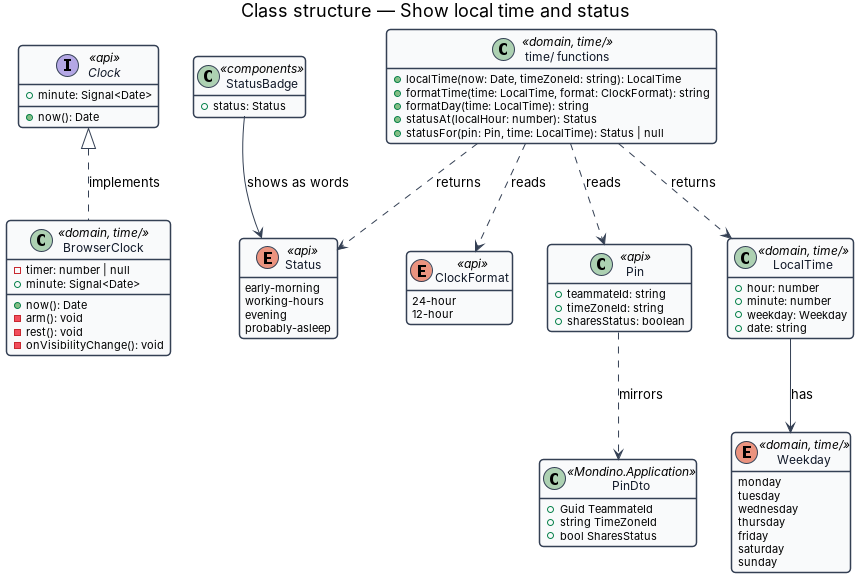
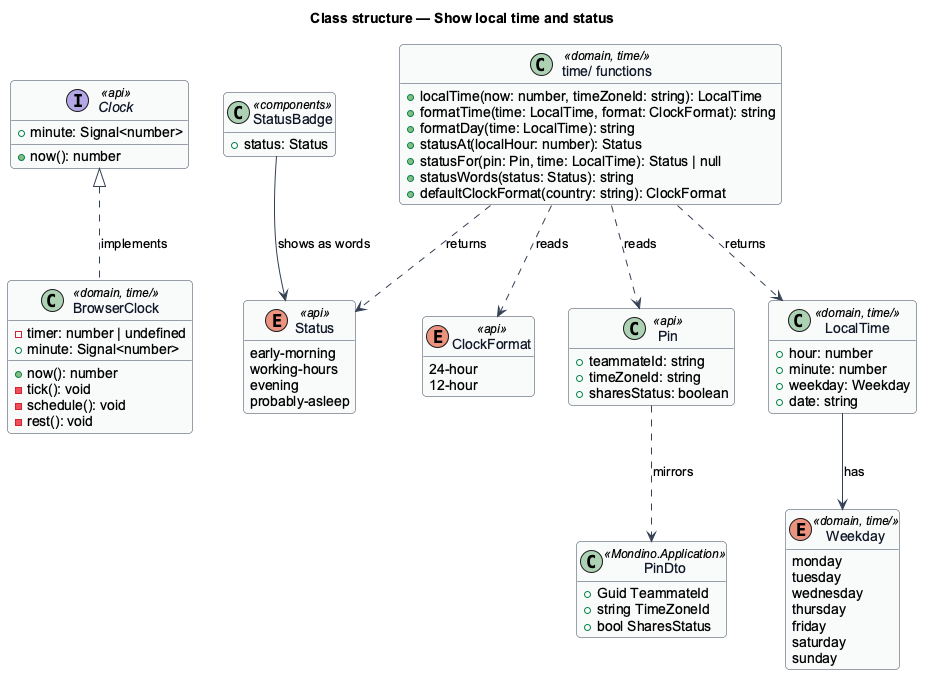
Align the local time and status design with the clock and pins built

diff --git a/docs/detailed-designs/time/show-local-time-and-status/README.md b/docs/detailed-designs/time/show-local-time-and-status/README.md
@@ -36,12 +36,14 @@ presentation components that show a time and a status.
 
 - **`City`** — value object in `Mondino.Domain`. Its `TimeZoneId` holds the IANA name found when
   the teammate's postal code was looked up.
-- **`TeammateSettings`** — value object in `Mondino.Domain`. Its `ShareStatus` records the
-  teammate's choice for "Share whether I’m working or asleep", on to begin with.
+- **`Teammate`** — entity in `Mondino.Domain`. Its `SharesStatus` records the teammate's
+  choice for "Share whether I’m working or asleep", on to begin with. The switch that changes
+  it comes with Profile & Settings (`choose-display-and-sharing`), which moves it into
+  `TeammateSettings` beside the other choices.
 - **`GetPinsQueryHandler`** — MediatR handler in `Mondino.Application`. It returns one `PinDto`
   per teammate of the viewer's team.
 - **`PinDto`** — carries `TimeZoneId` and `SharesStatus`, and no local time (L2-014). The
-  handler sets `SharesStatus` to the teammate's `ShareStatus`, except on the viewer's own pin,
+  handler sets `SharesStatus` to the teammate's own `SharesStatus`, except on the viewer's own pin,
   where it is `true`: a teammate still sees their own status. The backend therefore applies
   the choice, and the frontend only follows the flag.
 - **`TeamsController`** — exposes `GET /api/teams/{teamId}/pins`, checks nothing itself and
@@ -49,17 +51,23 @@ presentation components that show a time and a status.
 
 ### Frontend — `api` library
 
-- **`Clock`** and **`CLOCK`** — contract and injection token of the one clock. `now(): Date`
-  returns the current instant. `minute: Signal<Date>` holds the instant of the latest minute
-  boundary and changes once per minute.
+- **`Clock`** and **`CLOCK`** — contract and injection token of the one clock. `now(): number`
+  returns the current instant in milliseconds since the epoch. `minute: Signal<number>` holds
+  the instant of the latest minute boundary and changes once per minute.
 - **`Pin`** — type mirroring `PinDto`, with `timeZoneId: string` and `sharesStatus: boolean`.
 - **`Status`** — `'early-morning' | 'working-hours' | 'evening' | 'probably-asleep'`.
-- **`ClockFormat`** — `'24-hour' | '12-hour'`, the viewer's choice in `Settings`.
+- **`ClockFormat`** — `'24-hour' | '12-hour'`, the viewer's choice in `Settings`. Until
+  Profile & Settings stores the choice (`choose-display-and-sharing`), the default of L2-033
+  applies: the 12-hour clock for a viewer whose pin is in the United States or Canada, and the
+  24-hour clock otherwise.
+- **`PinView`** — what a pin shows (`show-pins`), with its `localTime` text and its `status`
+  (`Status | null`).
 
 ### Frontend — `domain` library, `time/`
 
-- **`BrowserClock`** — the implementation of `Clock`, bound to `CLOCK` once in `app.config.ts`
-  because the whole app shares it. It holds one timer however many pins a screen shows. The
+- **`BrowserClock`** — the implementation of `Clock`, bound to `CLOCK` by each screen that
+  reads the time (`draw-globe`), so it is released with the screen. It holds one timer however
+  many pins a screen shows. The
   timer is a `setTimeout` armed for the next minute boundary (`60 000 ms` minus the current
   instant modulo `60 000 ms`). When it fires, `BrowserClock` sets `minute` and arms the timer
   again from the current instant, so delay does not accumulate and the tick stays within one
@@ -70,7 +78,8 @@ presentation components that show a time and a status.
   weekday and calendar date of `now` in the given time zone through `Intl.DateTimeFormat` with
   `timeZone` set and the `h23` hour cycle. The browser's time zone data supplies the zone's rule,
   including daylight-saving changes. Formatters are kept in a map keyed by time zone id, which
-  is bounded by the number of IANA time zones.
+  is bounded by the number of IANA time zones. A time zone the browser does not know gives
+  UTC's time.
 - **`LocalTime`** — `hour` (0 to 23), `minute` (0 to 59), `weekday` (`Weekday`) and `date` (the
   local calendar date as `YYYY-MM-DD`). The `weekday` is the teammate's own day, so a panel
   shows Tuesday for Melbourne while the viewer in Milan is on Monday evening.
@@ -79,7 +88,12 @@ presentation components that show a time and a status.
   day line of a panel.
 - **`formatTime(time, format): string`** — pure function. On the 24-hour clock it gives two-digit
   hours and minutes ("08:05"). On the 12-hour clock it gives the hour without a leading zero and
-  a lowercase "am" or "pm" ("8:05 am").
+  a lowercase "am" or "pm" ("8:05 am", "12:30 pm", "12:05 am").
+- **`defaultClockFormat(country): ClockFormat`** — pure function: `12-hour` for the United
+  States and Canada, `24-hour` otherwise (L2-033). It stands for the viewer's choice until
+  Profile & Settings stores one.
+- **`statusWords(status): string`** — pure function: the words of a status as the mocks give
+  them, "Early morning", "Working hours", "Evening" and "Probably asleep".
 - **`statusAt(localHour): Status`** — pure function holding the table of L2-015: 7 and 8 give
   `early-morning`, 9 to 17 give `working-hours`, 18 to 22 give `evening`, and 23 and 0 to 6 give
   `probably-asleep`. It takes no day of the week.
@@ -98,17 +112,25 @@ instant comes from `CLOCK`. Unit tests bind a fake `Clock` and advance it; none 
 
 ### Frontend — pages and presentation
 
+- **`pinViews(pins, now, …)`** — in `domain`'s `pins/` (`show-pins`). For each pin it calls
+  `localTime`, `formatTime` with the viewer's `ClockFormat` and `statusFor`, and puts the time
+  text and the status on the pin's `PinView`. The pin's accessible name gives both, the status
+  as its words: "Tomás Herrera, Mexico City, 08:05, Early morning"; with no status, "Ahmed
+  Al-Sayed, Dubai, 18:05".
 - **`GlobePage`** and **`TeamPage`** — pages in the `mondino` application. Each holds one
-  `computed` that reads `CLOCK`'s `minute`, the pins of `TeamStore` and the viewer's
-  `ClockFormat`, and derives each pin's `LocalTime`, time text and status. One change of
-  `minute` therefore changes every local time on the screen in one pass. A page's `computed` is
-  released with the page.
+  `computed` that reads `CLOCK`'s `minute` and the pins of `TeamStore` and calls `pinViews`,
+  which derives each pin's `LocalTime`, time text and status. One change of `minute` therefore
+  changes every local time on the screen in one pass. A page's `computed` is released with the
+  page. The Team screen comes with `view-team-through-the-day`.
 - **`PinLabel`**, **`TeammatePanel`**, **`TeamTable`** and **`DayRibbon`** — presentation
   components in `components`. Each takes the time text, and where it shows one the day text, as
   inputs. Times are set in Gabarito with tabular figures. None injects `CLOCK`.
 - **`StatusBadge`** — presentation component, the `status` block of the mocks. It takes a
   `Status` and shows it as its words;
-  colour accompanies the words and never replaces them. It renders nothing for `null`.
+  colour accompanies the words and never replaces them. It renders nothing for `null`. It is
+  built with the first screen that shows it, the teammate panel (`view-teammate-panel`); until
+  then the Globe gives each status in words in its pin's accessible name, as the mocks do, and
+  the pin label shows the local time only.
 
 The words for each status and for each weekday follow the mocks in `docs/mocks/`.
 

diff --git a/docs/detailed-designs/globe/show-pins/README.md b/docs/detailed-designs/globe/show-pins/README.md
@@ -110,9 +110,10 @@ decides how they are drawn.
   still picture is drawn with (`stillPlacements`).
 - **`pinViews(pins, now)`** — the `PinView` of each pin: **`initialsOf(name)`**, the first
   character of up to the first two words of a name, so a pin is never blank;
-  **`localTimeIn(timeZoneId, now)`** in `time/`, the 24-hour local time; and
-  **`describePin`**, the accessible name: "Tomás Herrera, Mexico City, 08:05". Journeys 11, 13
-  and 20 add the status, the weather and the moments to it. **`describeGroup`** names a group
+  the local time and the status, from **`localTime`**, **`formatTime`** and **`statusFor`** in
+  `time/` on the viewer's clock (`show-local-time-and-status`); and **`describePin`**, the
+  accessible name: "Tomás Herrera, Mexico City, 08:05, Early morning". Journeys 13 and 20 add
+  the weather and the moments to it. **`describeGroup`** names a group
   pin: "2 teammates close together: Sofia Bianchi (you), Luca Ferri", "14 teammates close
   together, Mexico City", "60 teammates close together, 3 cities".
 
